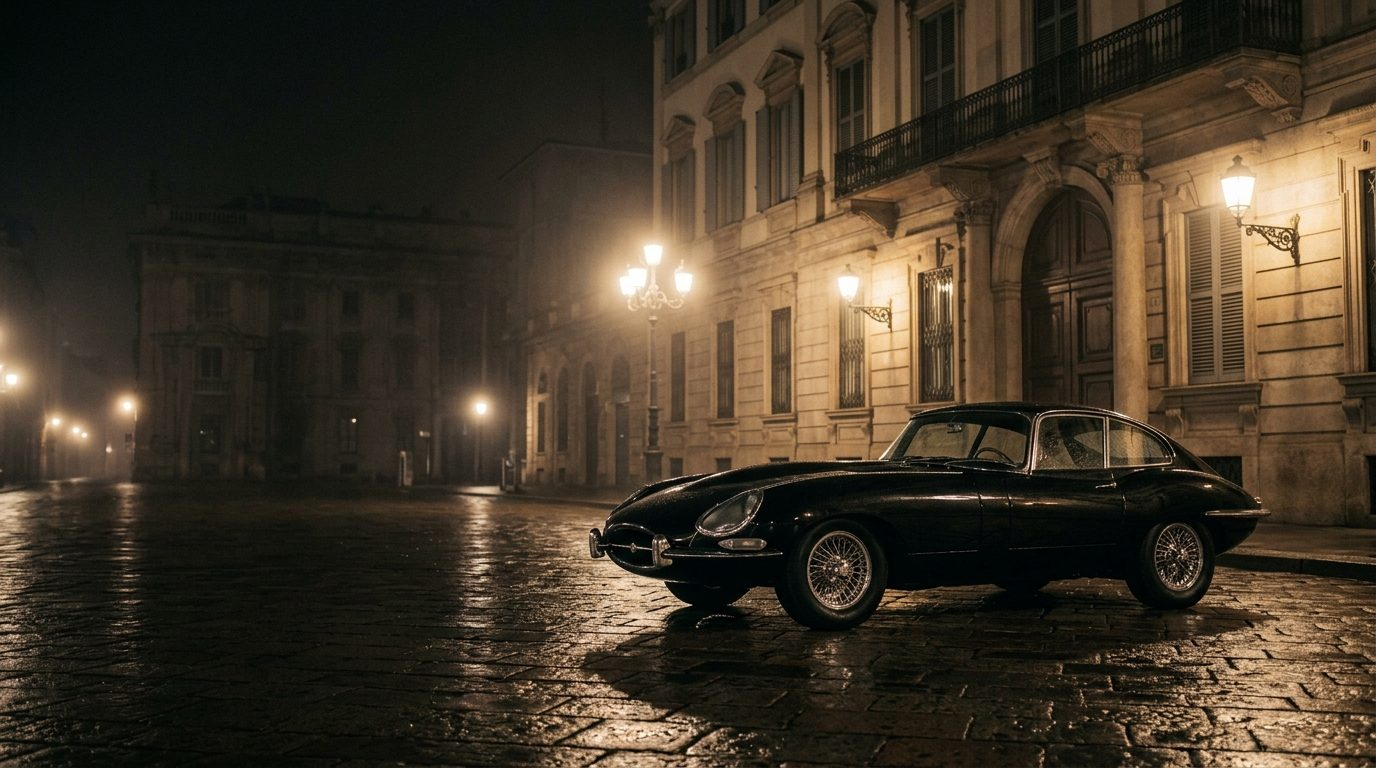
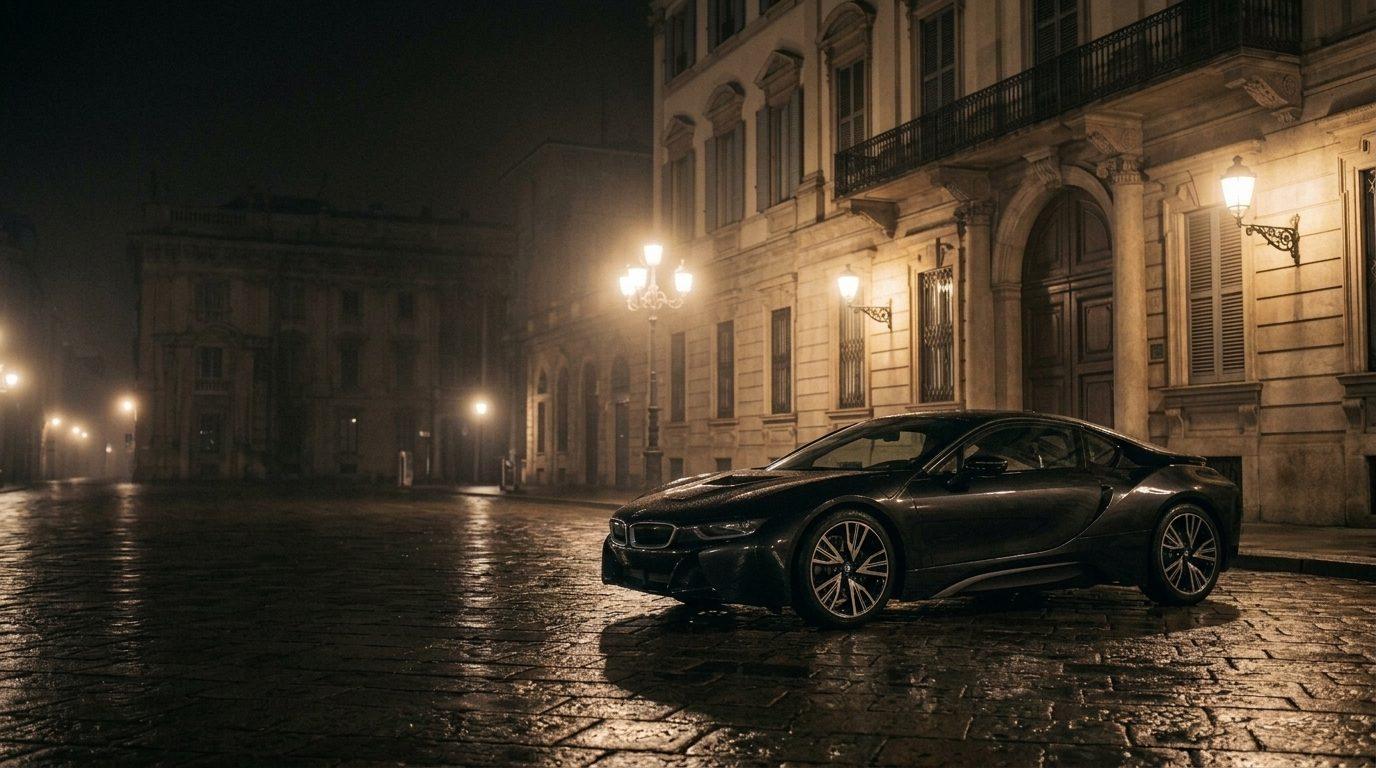
Replace legacy car image with the new black coupe

diff --git a/index.html b/index.html
@@ -319,7 +319,7 @@
         </div>
         <div class="journal__grid">
           <article class="story reveal">
-            <figure><img src="assets/images/legacy-car.jpg" alt="A black 1960s grand tourer on wet cobblestones at night in Milan" loading="lazy"></figure>
+            <figure><img src="assets/images/legacy-car.jpg" alt="A black sports coupe on wet cobblestones at night in Milan" loading="lazy"></figure>
             <p class="story__meta">Design · 6 min read</p>
             <h3>On proportion: what the great grand tourers teach us about a well-cut coat.</h3>
           </article>
